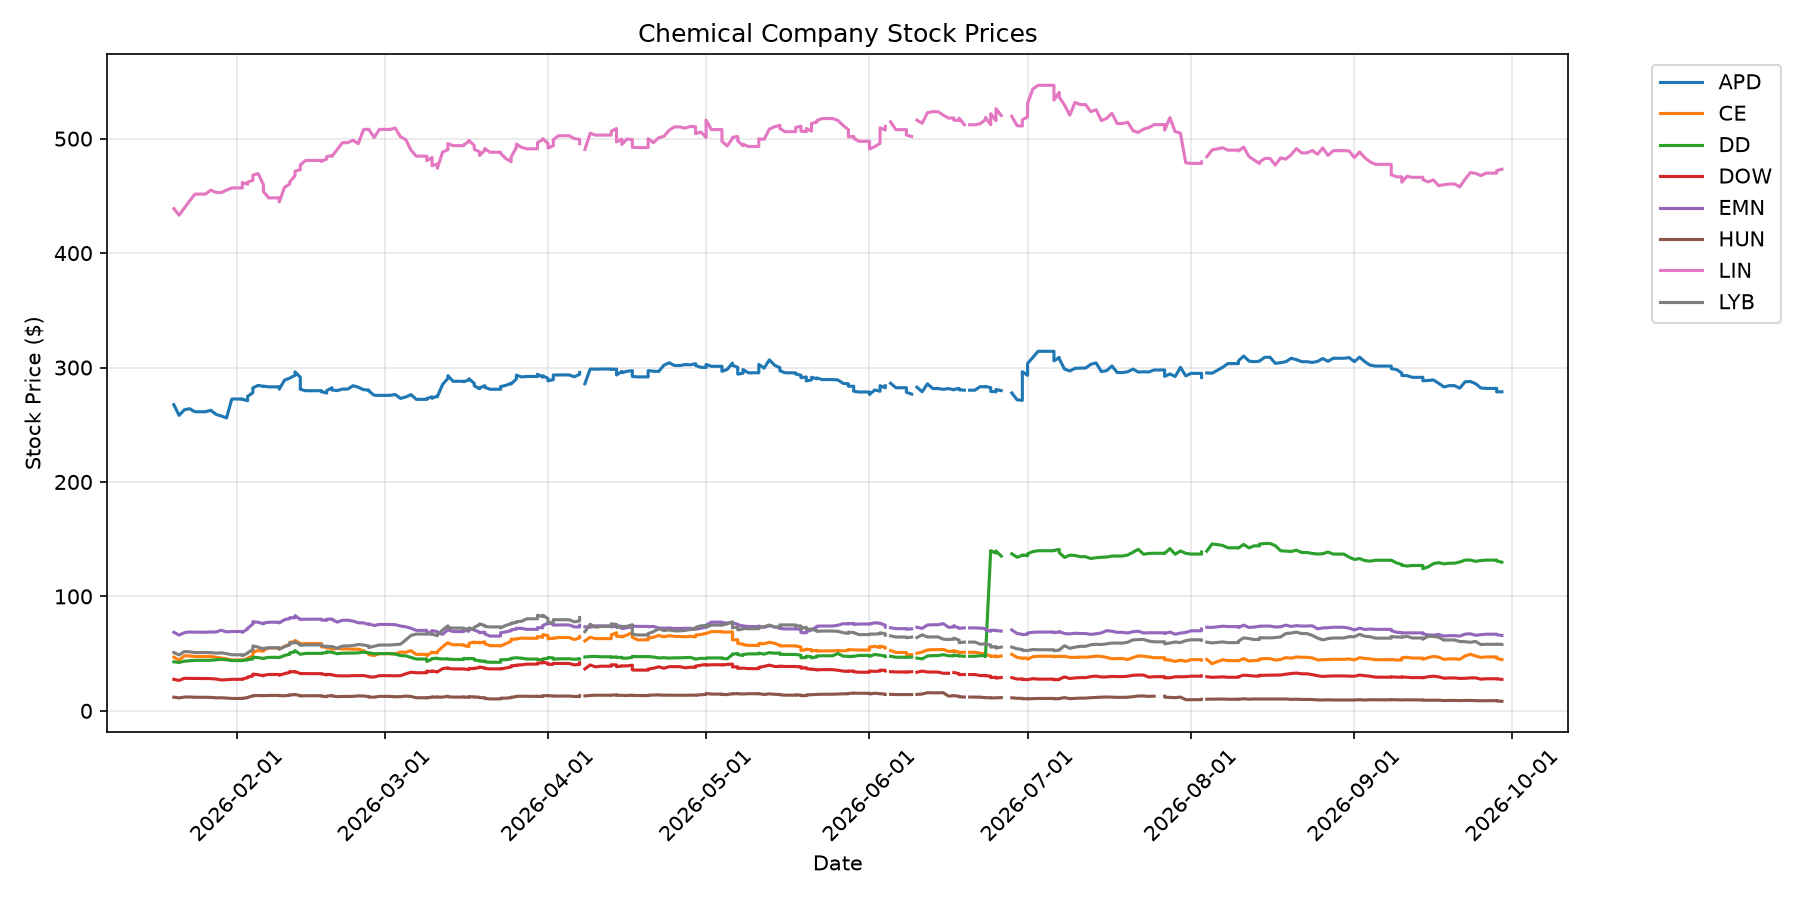
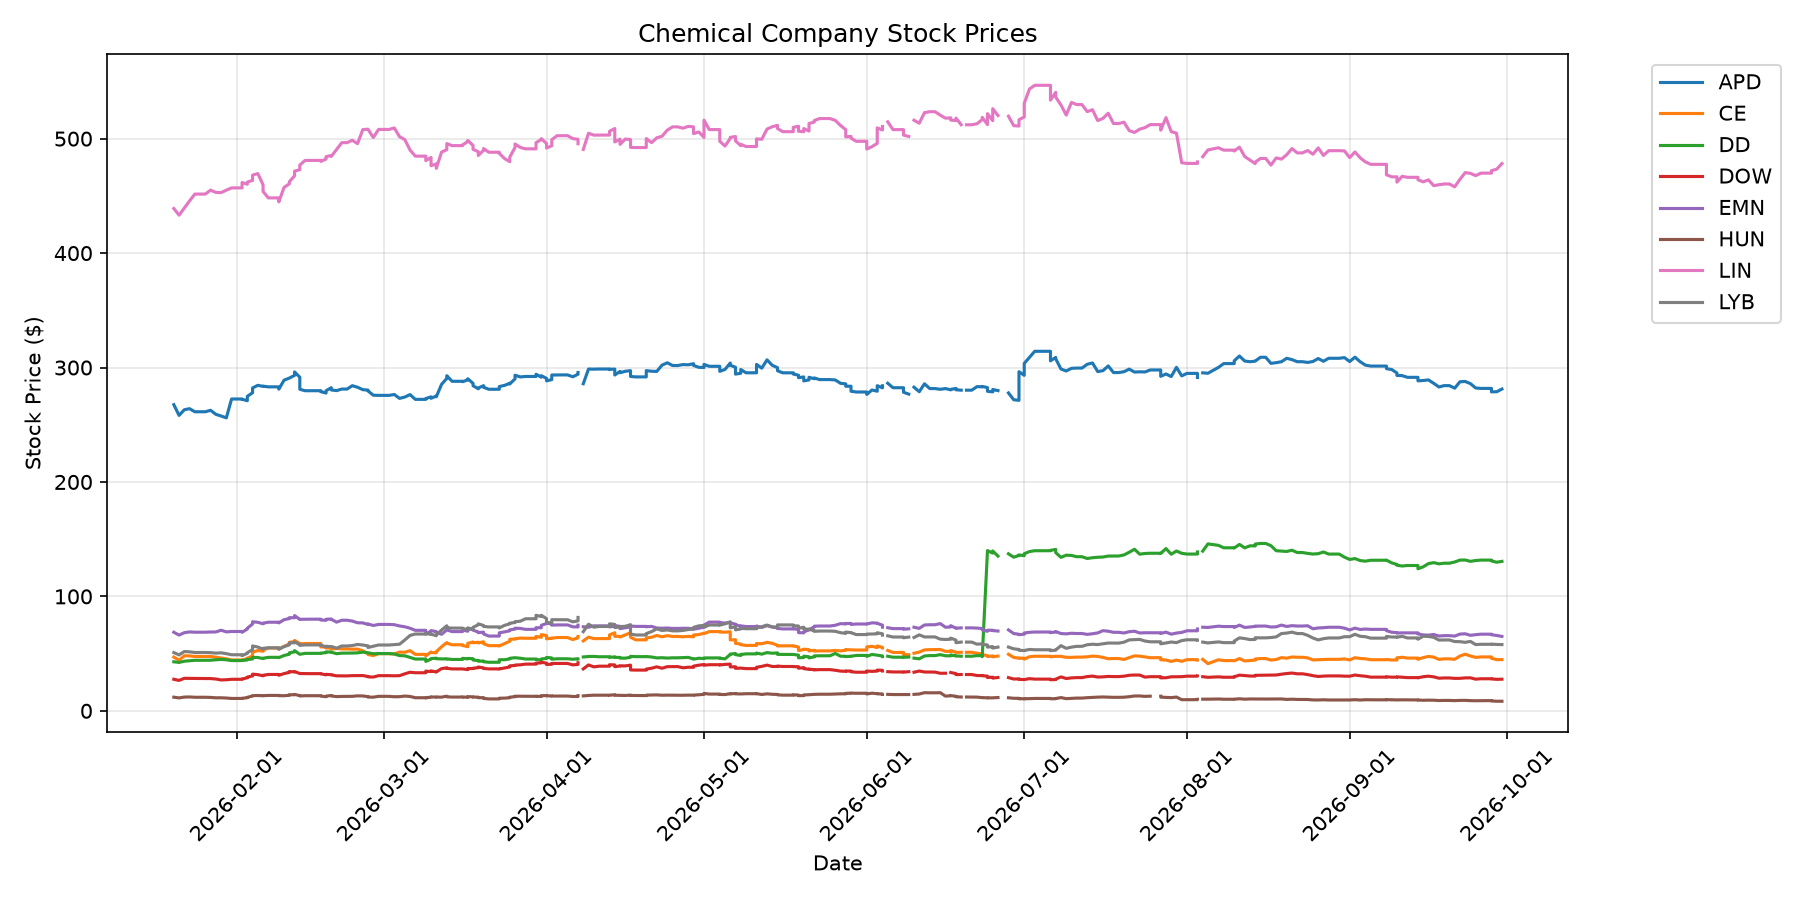
Daily price update: 2026-09-30

diff --git a/README.md b/README.md
@@ -2,29 +2,29 @@
 
 Automated daily tracking of chemical commodity prices and chemical company stocks.
 
-## Latest Prices (Updated: 2026-09-29)
+## Latest Prices (Updated: 2026-09-30)
 
 ### Energy Commodities
 
 | Commodity | Price | Change (24h) | Unit |
 |-----------|-------|--------------|------|
-| WTI Crude Oil | $89.51 | -3.09 (-3.34%) | $/barrel |
-| Brent Crude Oil | $96.32 | -8.96 (-8.51%) | $/barrel |
-| Natural Gas | $3.02 | +0.02 (+0.63%) | $/MMBtu |
-| Heating Oil | $4.53 | -0.22 (-4.69%) | $/gallon |
+| WTI Crude Oil | $90.63 | +1.25 (+1.40%) | $/barrel |
+| Brent Crude Oil | $98.27 | -4.32 (-4.21%) | $/barrel |
+| Natural Gas | $3.03 | +0.02 (+0.53%) | $/MMBtu |
+| Heating Oil | $4.70 | -0.19 (-3.97%) | $/gallon |
 
 ### Chemical Company Stocks
 
 | Company | Ticker | Price | Change (24h) |
 |---------|--------|-------|--------------|
-| Dow Inc. | DOW | $27.51 | -0.38 (-1.36%) |
-| LyondellBasell | LYB | $58.00 | -0.27 (-0.46%) |
-| DuPont | DD | $129.87 | -1.11 (-0.85%) |
-| Air Products | APD | $278.83 | +0.08 (+0.03%) |
-| Linde | LIN | $473.30 | +1.26 (+0.27%) |
-| Eastman Chemical | EMN | $65.87 | -0.60 (-0.90%) |
-| Celanese | CE | $44.71 | -1.21 (-2.64%) |
-| Huntsman | HUN | $8.38 | -0.26 (-2.95%) |
+| Dow Inc. | DOW | $27.64 | +0.02 (+0.09%) |
+| LyondellBasell | LYB | $57.88 | -0.30 (-0.52%) |
+| DuPont | DD | $130.59 | +0.47 (+0.36%) |
+| Air Products | APD | $281.20 | +2.01 (+0.72%) |
+| Linde | LIN | $478.24 | +4.87 (+1.03%) |
+| Eastman Chemical | EMN | $65.00 | -0.75 (-1.14%) |
+| Celanese | CE | $44.76 | -0.08 (-0.19%) |
+| Huntsman | HUN | $8.37 | -0.01 (-0.12%) |
 
 ## Data Sources
 

diff --git a/logs/update_log.md b/logs/update_log.md
@@ -385,3 +385,4 @@ Daily updates to the chemical engineering data repository.
 - **2026-09-28 00:00:08**: Updated 4 energy prices, 8 stocks, 0 FRED series
 - **2026-09-28 20:18:52**: Updated 4 energy prices, 8 stocks, 0 FRED series
 - **2026-09-29 18:58:50**: Updated 4 energy prices, 8 stocks, 0 FRED series
+- **2026-09-30 18:43:02**: Updated 4 energy prices, 8 stocks, 0 FRED series
